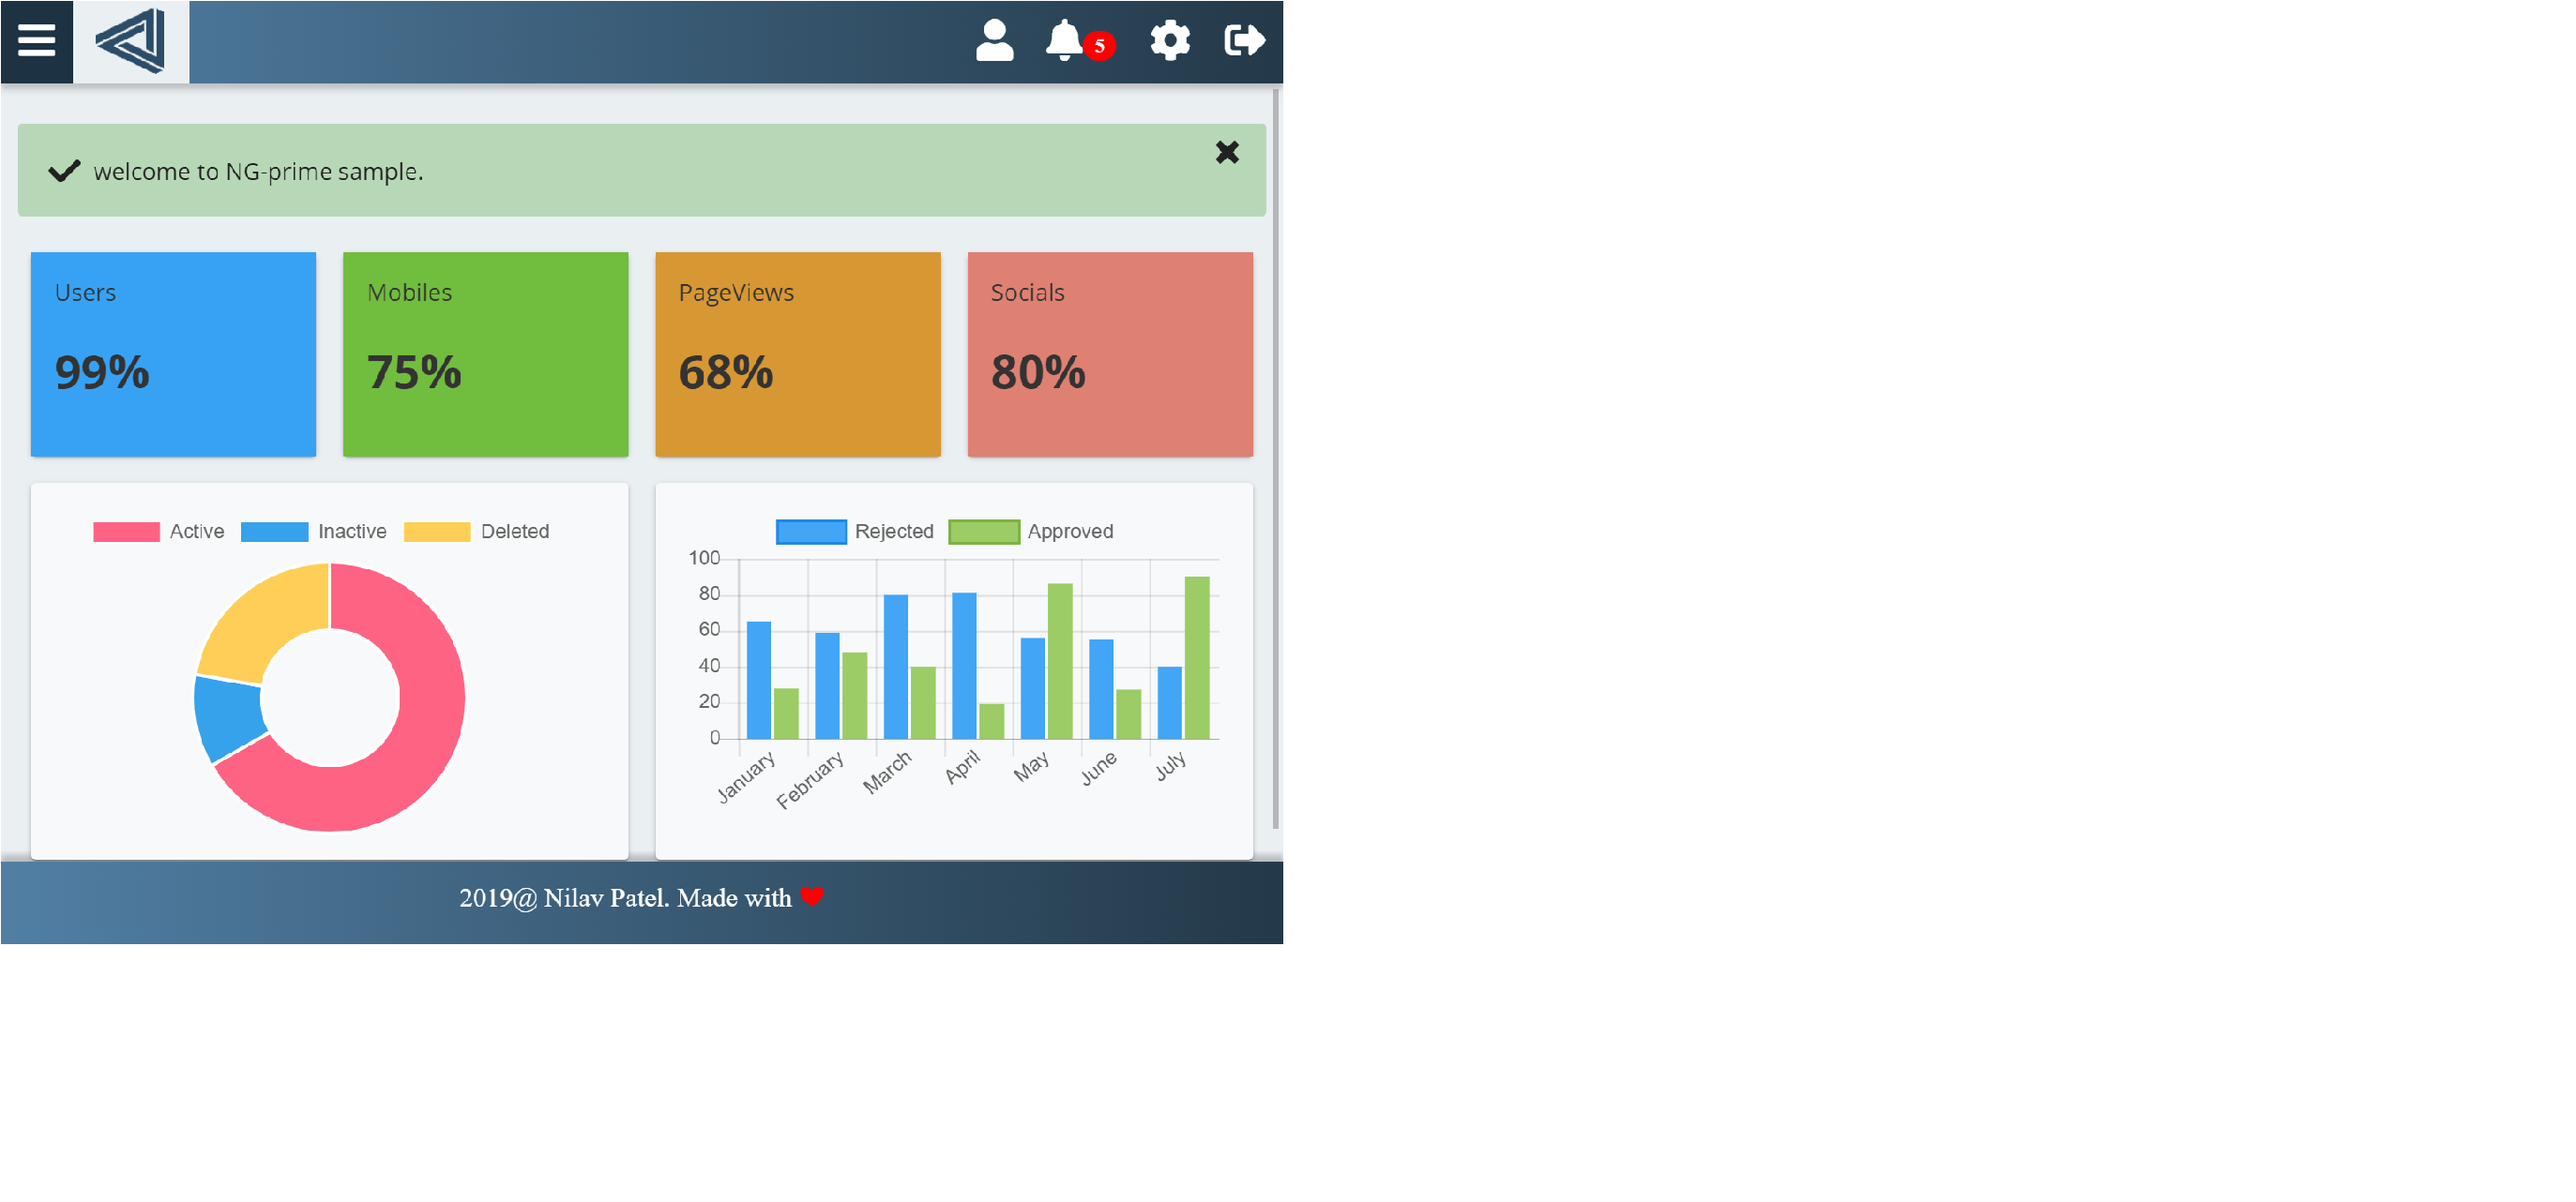
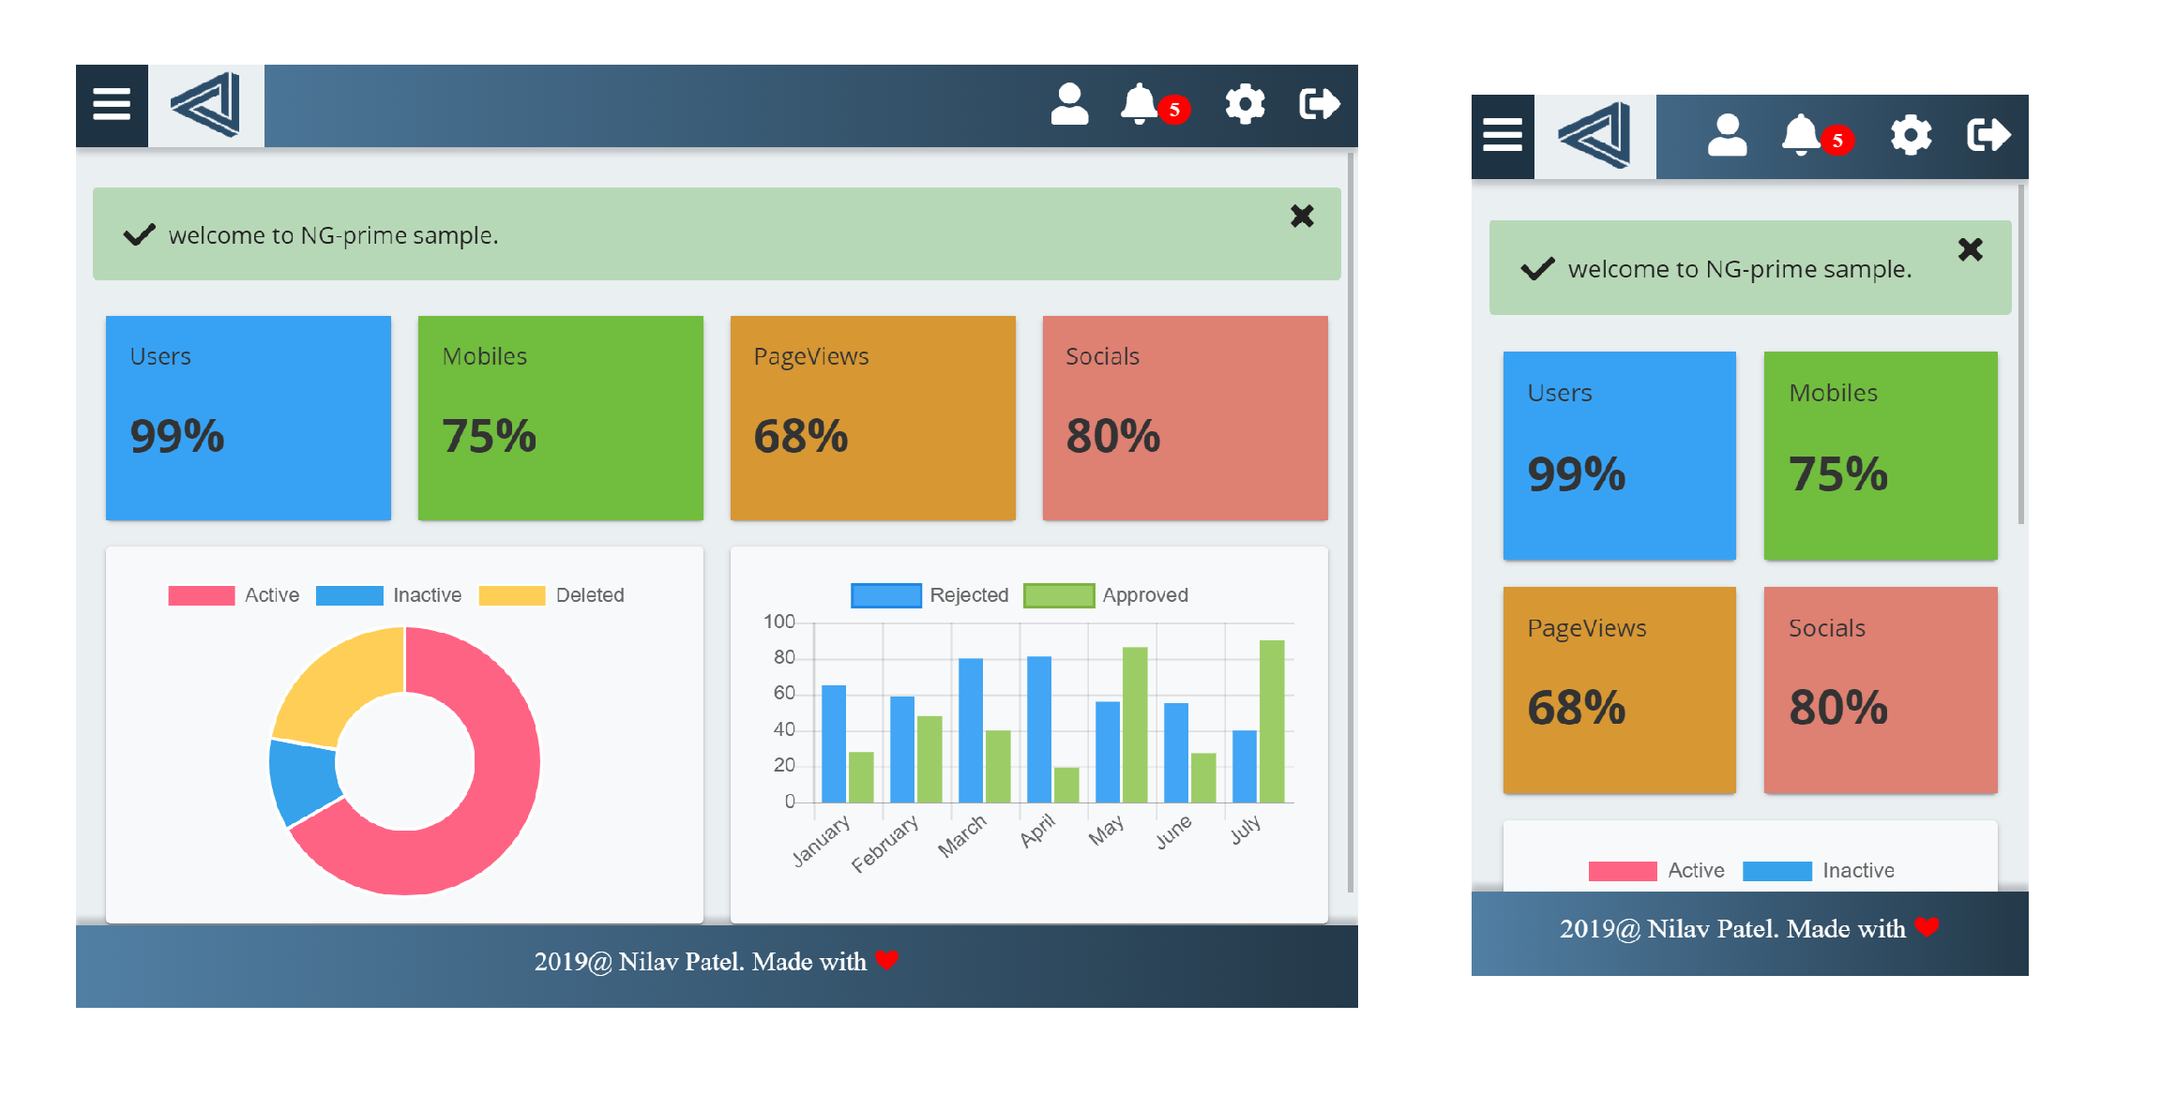
update readme

diff --git a/README.md b/README.md
@@ -47,8 +47,7 @@ Chrome, Firefox, Edge, IE 11/10 (except theme chooser as css variables not suppo
 
 ![image dashboard](https://github.com/NilavPatel/ng-prime/blob/master/src/assets/images/details-page.png)
 
-### Responsive  layout for desktop, tablet and mobile
+### Responsive layout for desktop, tablet and mobile
 
 ![image dashboard](https://github.com/NilavPatel/ng-prime/blob/master/src/assets/images/laptop.png)
 ![image dashboard](https://github.com/NilavPatel/ng-prime/blob/master/src/assets/images/tablet.png)
-![image dashboard](https://github.com/NilavPatel/ng-prime/blob/master/src/assets/images/mobile.png)
